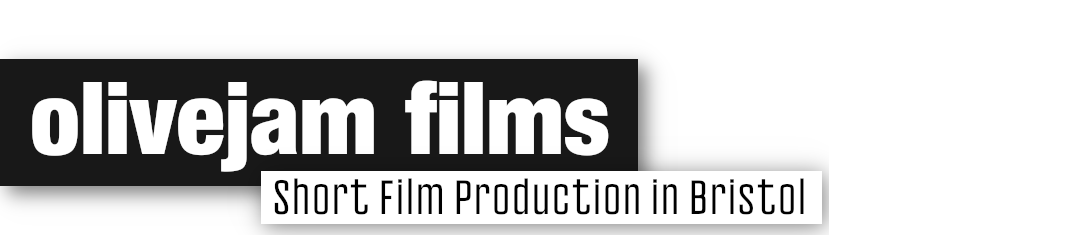
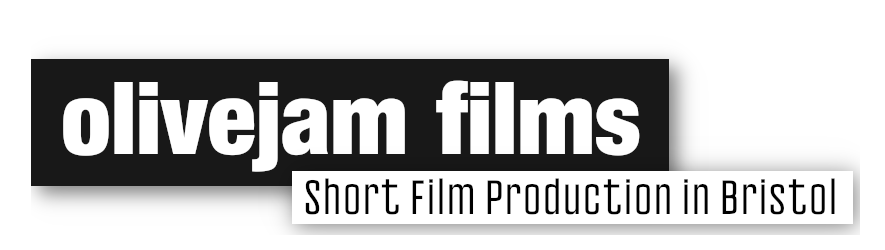
updated header image

Changed region(s): [[0.0, 0.224, 0.9763, 0.952]]

diff --git a/styles.css b/styles.css
@@ -72,8 +72,8 @@ p {
 
 /* banner image */
 .banner_img img {
-  width: 30%;
-  height: 30%;
+  width: 20%;
+  height: 20%;
   object-fit: cover;
   overflow: hidden;
 }
@@ -107,8 +107,8 @@ p {
       font-size: 1.1em;
     }
     .banner_img img {
-      width: 40%;
-      height: 40%;
+      width: 30%;
+      height: 30%;
     }
   }
 
@@ -118,12 +118,12 @@ p {
       font-size: 1.2em;
     }
     .banner_img img {
-      width: 60%;
-      height: 60%;
+      width: 40%;
+      height: 40%;
     }
   }
 
-  @media all and (max-width: 1350px) {
+  @media all and (max-width: 1250px) {
     .navigation {
       justify-content: center;
       font-size: 1.3em;
